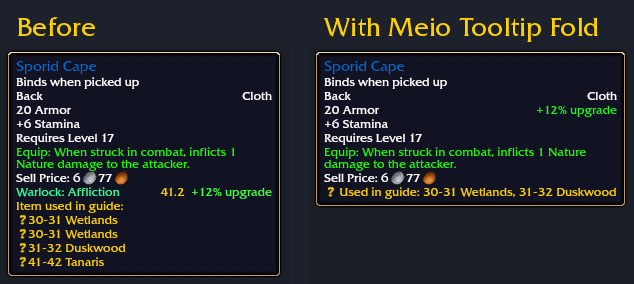
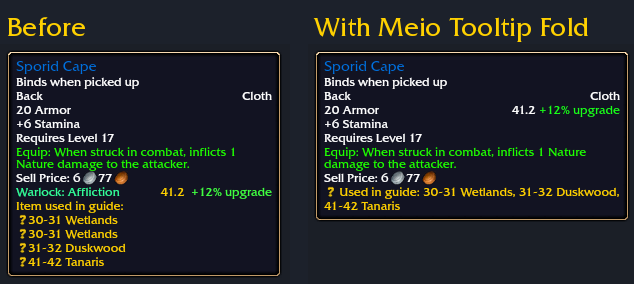
1.4.0: every RestedXP guide, each addon's score beside its comparison
Claude-Session: https://claude.ai/code/session_01FpmmnvCENLtngByqA1w7Y1

Changed region(s): [[0.4795, 0.1972, 1.0, 0.7887], [0.4795, 0.0563, 0.959, 0.169], [0.0, 0.0563, 0.1498, 0.1408]]

diff --git a/README.md b/README.md
@@ -4,27 +4,26 @@ Short item tooltips: the lines other addons pile at the bottom move into Blizzar
 
 For WoW Forever.
 
-![A cloak's tooltip side by side: before, Pawn's upgrade line and RestedXP's guide header
-with four guide lines at the bottom; with MeioTooltipFold, four lines shorter, the upgrade
-beside the armour and the guides in one line](docs/before-after.png)
+![A cloak's tooltip side by side: before, Pawn's line and RestedXP's guide header with four
+guide lines at the bottom; with MeioTooltipFold, four lines shorter, Pawn's score and upgrade
+beside the armour and the three guides in two lines](docs/before-after.png)
 
 ## What it does
 
 Each addon's lines go where they belong, and only when that addon is installed.
 
-- **Pawn**: the upgrade percentage sits beside the weapon's damage, the armour or the last
-  stat; its scale line hides
-- **RestedXP Guides**: "Item used in guide" becomes one line, each guide named once, only
-  guides that start near your level
-- **ForeverGear** and **GearQuest**: the gain and the rank join Pawn's upgrade on the armour
+- **Pawn**: the item's score and upgrade percentage sit beside the weapon's damage, the
+  armour or the last stat; its scale line hides
+- **RestedXP Guides**: "Item used in guide" becomes one line, every guide named once
+- **ForeverGear** and **GearQuest**: their score, gain and rank join Pawn's on the armour
   (or damage) line; their own lines and GearQuest's other-spec ranks hide
 - **Meionomics**: its price sits right under Sell Price
 - **Any line you never read**: hover an item, type `/tooltipfold hide` and pick its number,
   or `/tooltipfold hide <text>`; it hides on every item
-- Hold **Shift** to see the hidden lines again
+- Hold **Shift** to see the addons' own lines again
 
-![Sporid Cape tooltip: Pawn's +12%, ForeverGear's +20 and GearQuest's #3 +12 on the right
-of the armour line](docs/gear.png)
+![Sporid Cape tooltip: Pawn's 123.4 +12%, ForeverGear's 92 +20 and GearQuest's #3 72 +12
+on the right of the armour line](docs/gear.png)
 
 Settings: Esc > Options > AddOns > MeioTooltipFold, or `/tooltipfold`.
 
@@ -36,9 +35,9 @@ Settings: Esc > Options > AddOns > MeioTooltipFold, or `/tooltipfold`.
   addon's lines or leave them
 - `/tooltipfold hide`: over an item, its lines numbered; `hide <n>` or `hide <text>` hides
   them; `/tooltipfold unhide <n|text|all>` shows them again
-- `/tooltipfold bis on|off`: Forever Leveling BiS's verdict as one line (needs a Leveling BiS
-  version that lets other addons take over its block; the current one doesn't yet)
-- `/tooltipfold near <levels>`: how far above your level a guide may start (default 5)
+- `/tooltipfold bis on|off`: Forever Leveling BiS's verdict and score as one line (needs a
+  Leveling BiS version that lets other addons take over its block; the current one doesn't
+  yet)
 - `/tooltipfold reset`: back to the defaults
 
 ## Install

diff --git a/CHANGELOG.md b/CHANGELOG.md
@@ -1,5 +1,14 @@
 # MeioTooltipFold
 
+## 1.4.0
+
+- Every RestedXP guide shows, not only those near your level; many guides take two lines
+  instead of widening the tooltip. The guide range setting is gone
+- The item's own score sits beside each comparison: Pawn "123.4 +12%", ForeverGear "92 +20",
+  GearQuest "#3 72 +12" (and Leveling BiS, once it lets other addons take over its lines)
+- A grey bar between Pawn, ForeverGear and GearQuest on the armour line
+- Shift shows Pawn's and RestedXP's own lines, as for the other addons
+
 ## 1.3.0
 
 - ForeverGear's gain and GearQuest's rank sit on the armour (or damage) line beside Pawn's
